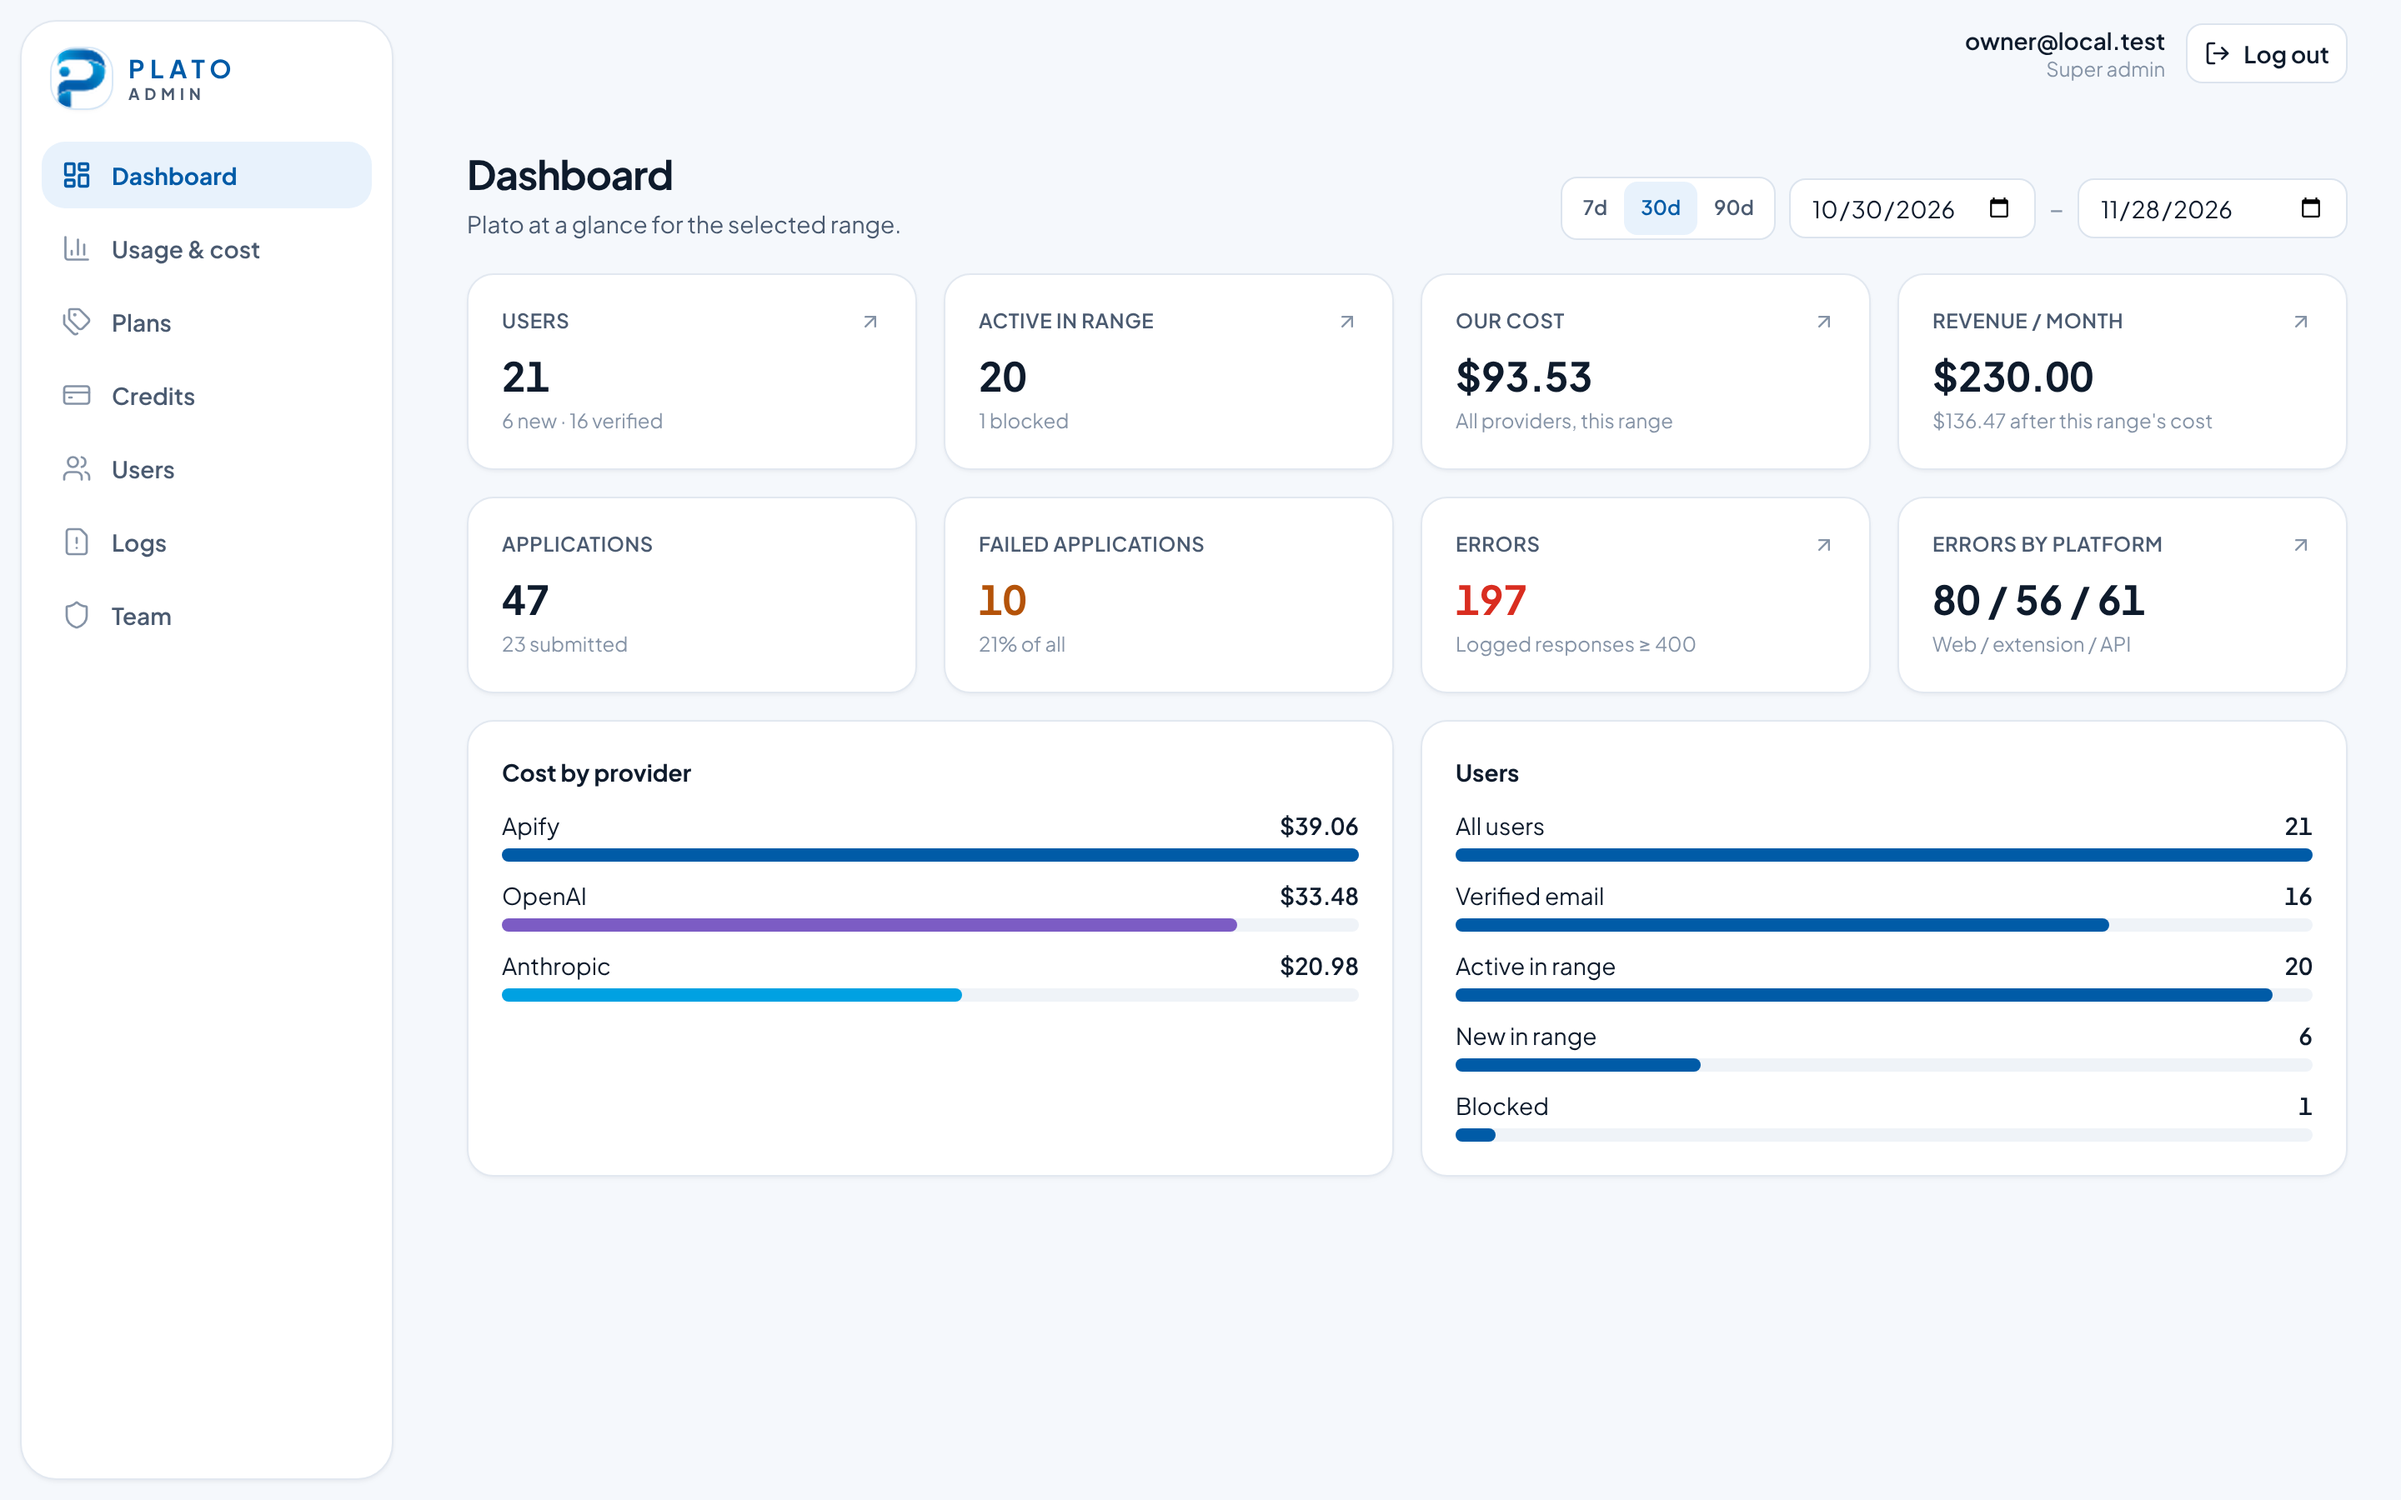
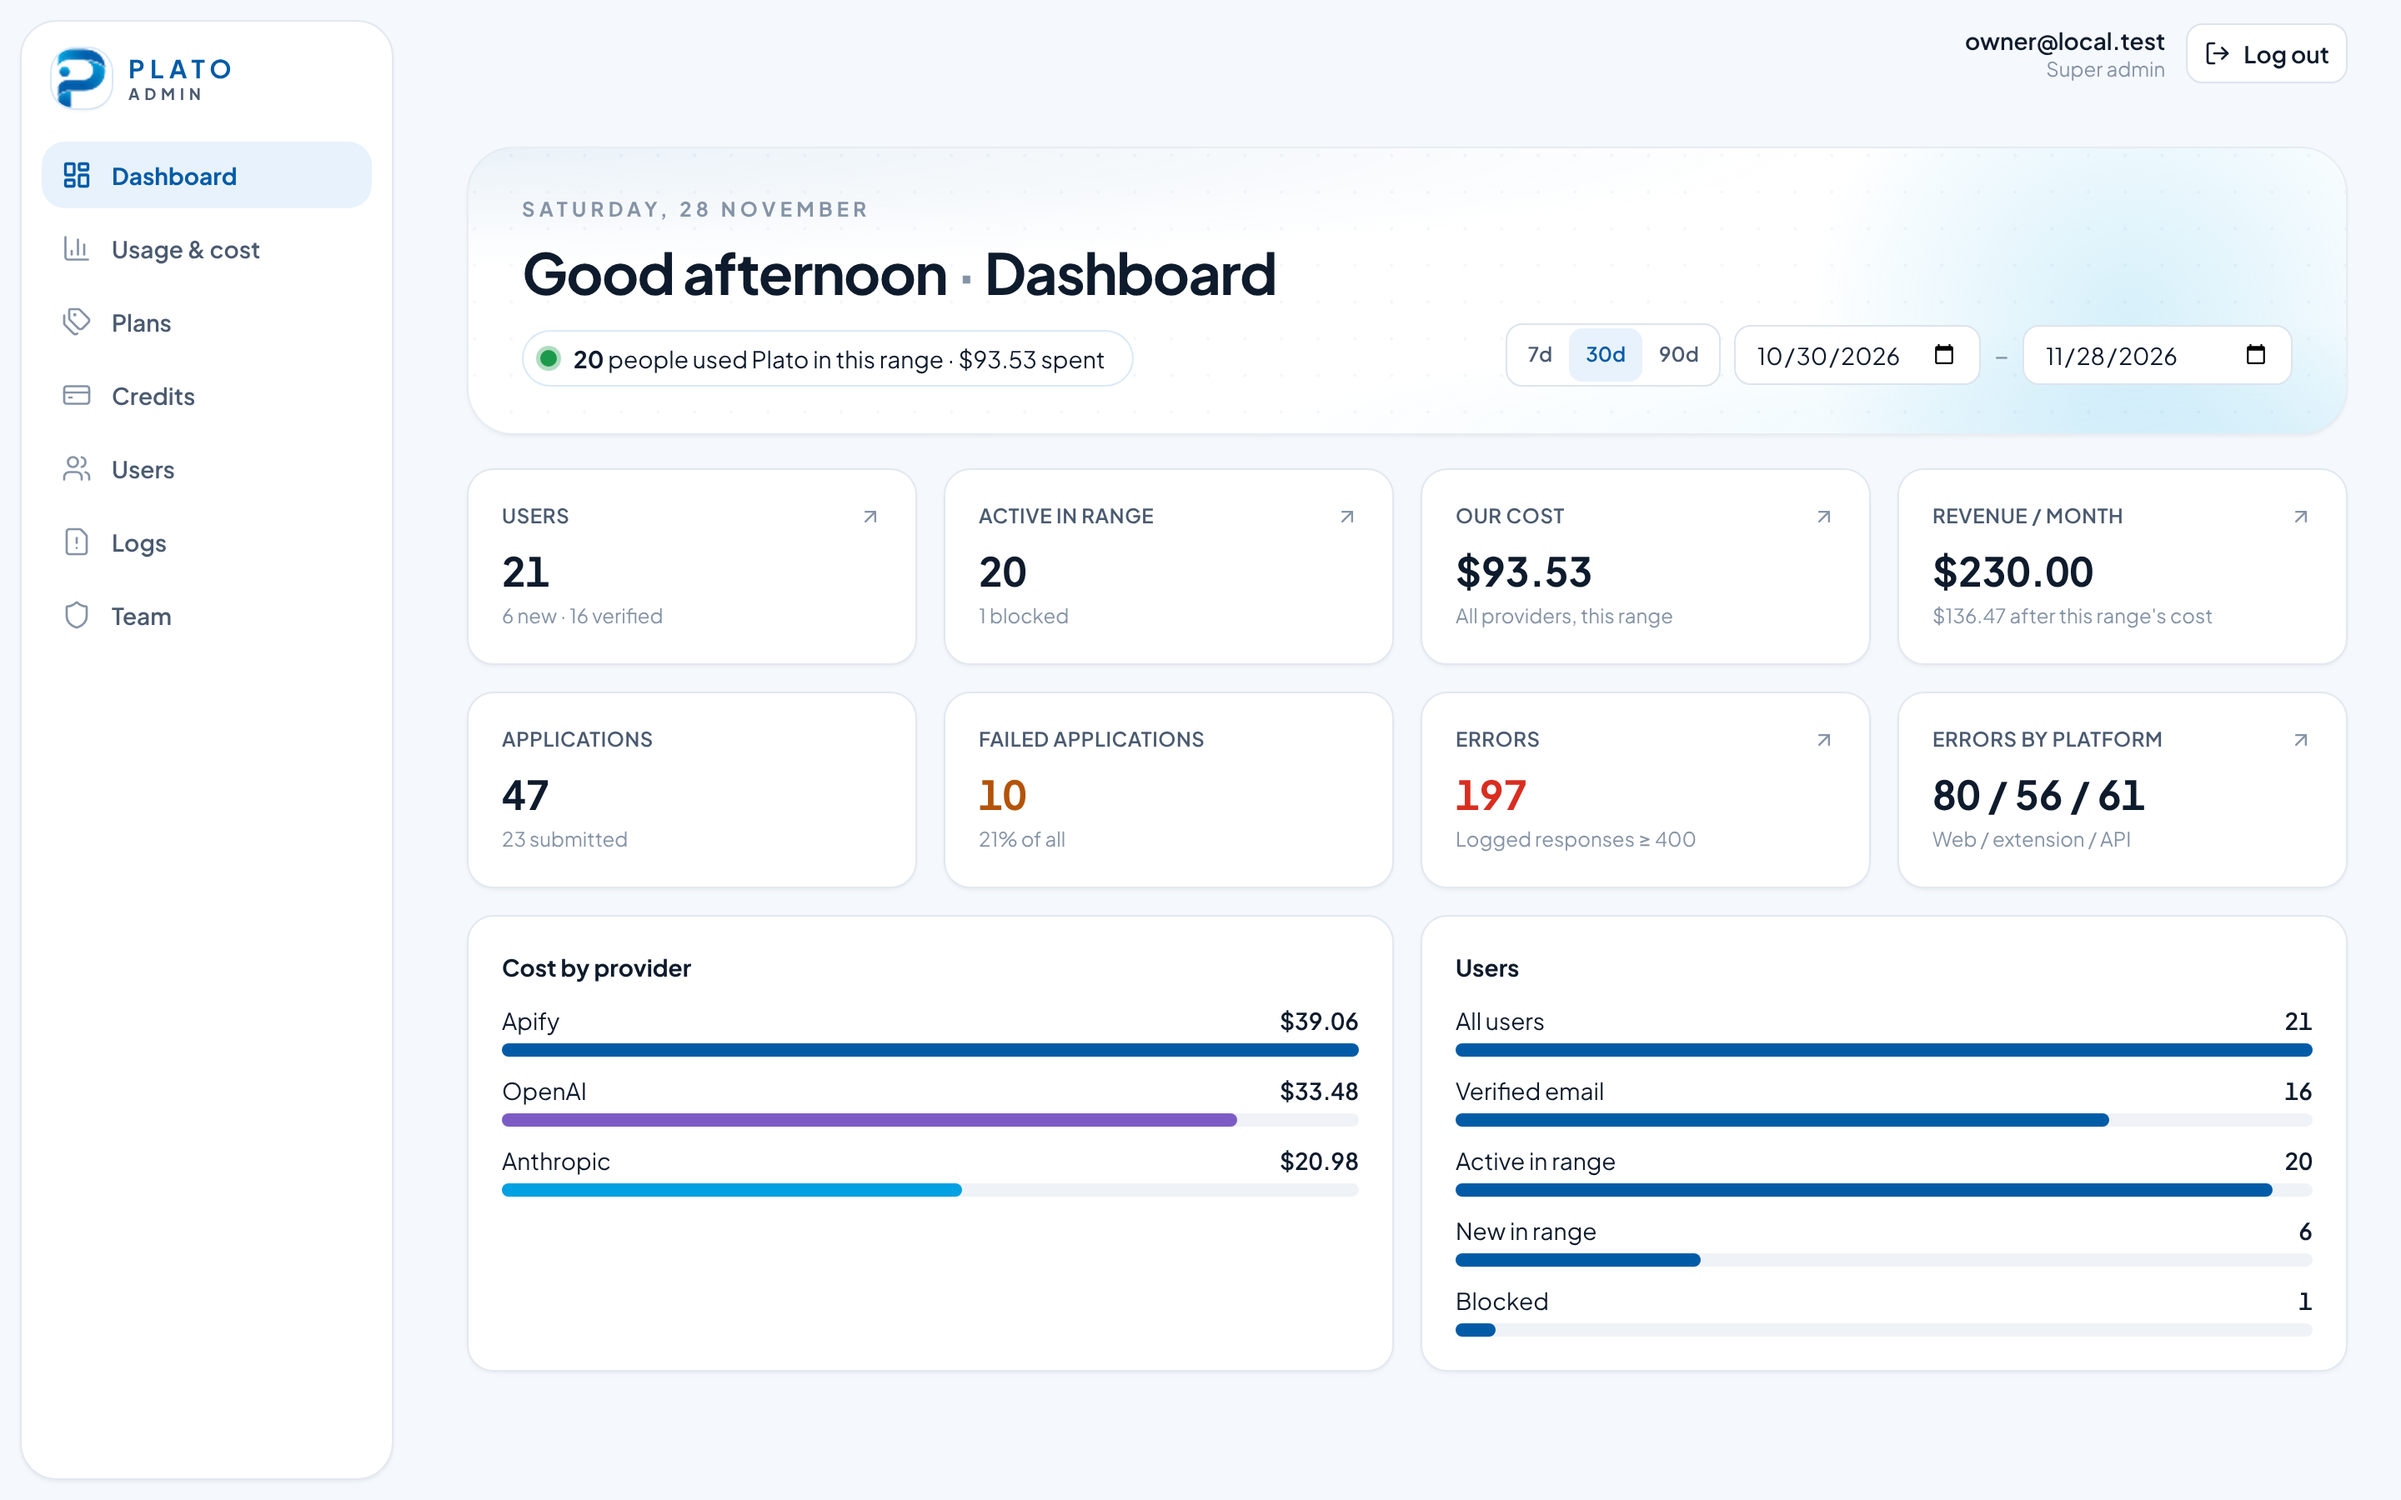
Admin dashboard: the seeker Home's brand header (fx-depth layers, greeting, live status)
Claude-Session: https://claude.ai/code/session_01VMzvXqUWVHxk74mjrZamoN

diff --git a/plato-admin/src/components/BrandHeader.tsx b/plato-admin/src/components/BrandHeader.tsx
@@ -1,0 +1,52 @@
+import type { ReactNode } from 'react';
+
+// The seeker app's brand panel (lib/brand.ts BRAND_PANEL, Home's header): a white card washed with
+// cobalt from the top left and azure from the bottom right.
+export const BRAND_PANEL =
+  'border border-border/80 bg-card bg-[radial-gradient(120%_70%_at_0%_0%,color-mix(in_oklch,var(--primary)_8%,transparent),transparent_60%),radial-gradient(90%_60%_at_100%_100%,color-mix(in_oklch,var(--azure)_9%,transparent),transparent_65%)]';
+// Chips and secondary controls sitting on the brand panel.
+export const BRAND_GLASS = 'border border-primary-line/70 bg-card/85 backdrop-blur-sm';
+
+const greeting = (h = new Date().getHours()) => (h < 5 ? 'Good evening' : h < 12 ? 'Good morning' : h < 18 ? 'Good afternoon' : 'Good evening');
+
+/**
+ * A page's header as the seeker Home draws it: date, greeting, title line, a status pill, and the
+ * page's actions in the usual top-right spot. Its two background layers drift with the pointer at
+ * their own rates (.fx-depth, written by CardFx); still with reduced motion or on touch.
+ */
+export function BrandHeader({ title, status, live, actions }: { title: ReactNode; status?: ReactNode; live?: boolean; actions?: ReactNode }) {
+  const now = new Date();
+  return (
+    <section className={`${BRAND_PANEL} fx-depth enter relative isolate mb-5 overflow-hidden rounded-[28px] px-5 py-6 shadow-card sm:px-8 sm:py-7`}>
+      <span
+        aria-hidden
+        className="depth-2 pointer-events-none absolute -top-24 -right-24 -z-10 size-[420px] rounded-full bg-[radial-gradient(circle,color-mix(in_oklch,var(--azure)_16%,transparent),transparent_65%)]"
+      />
+      <span
+        aria-hidden
+        className="depth-1 pointer-events-none absolute -inset-6 -z-10 [background-image:radial-gradient(var(--primary)_1px,transparent_1px)] [background-size:22px_22px] opacity-[0.05]"
+      />
+      <div className="flex flex-col gap-5 lg:flex-row lg:items-end lg:justify-between">
+        <div className="min-w-0">
+          <p className="text-[12px] font-bold tracking-[0.22em] text-text-tertiary uppercase">
+            {now.toLocaleDateString('en-GB', { weekday: 'long' })}, {now.toLocaleDateString('en-GB', { day: 'numeric', month: 'long' })}
+          </p>
+          <h1 className="mt-2 text-[28px] leading-tight font-extrabold tracking-tight sm:text-[34px]">
+            {greeting()} <span className="text-text-tertiary">·</span> {title}
+          </h1>
+          {status && (
+            // wraps on a phone instead of cutting the numbers off; one line from sm up
+            <p className={`${BRAND_GLASS} mt-3 inline-flex max-w-full items-center gap-2.5 rounded-2xl py-1.5 pr-4 pl-2.5 text-sm sm:rounded-full`}>
+              <span className="relative flex size-2.5 shrink-0">
+                {live && <span className="ping absolute inline-flex size-full rounded-full bg-success opacity-70" />}
+                <span className={`relative inline-flex size-2.5 rounded-full ${live ? 'bg-success' : 'bg-text-tertiary'}`} />
+              </span>
+              <span className="min-w-0 sm:truncate">{status}</span>
+            </p>
+          )}
+        </div>
+        {actions && <div className="flex flex-wrap items-center gap-2 lg:justify-end">{actions}</div>}
+      </div>
+    </section>
+  );
+}

diff --git a/plato-admin/src/pages/Dashboard.tsx b/plato-admin/src/pages/Dashboard.tsx
@@ -1,6 +1,7 @@
+import { BrandHeader } from '../components/BrandHeader';
 import { DateRange } from '../components/DateRange';
 import { BarList, providerColor, providerLabel } from '../components/charts';
-import { ErrorNote, Grid2, PageSkeleton, PageHeader, Section, Stat, StatGrid } from '../components/ui';
+import { ErrorNote, Grid2, PageSkeleton, Section, Stat, StatGrid } from '../components/ui';
 import { useAuth } from '../lib/auth';
 import { money, num } from '../lib/format';
 import { canSee } from '../lib/nav';
@@ -18,7 +19,20 @@ export default function Dashboard() {
 
   return (
     <>
-      <PageHeader title="Dashboard" description="Plato at a glance for the selected range." actions={<DateRange from={from} to={to_} onChange={setRange} />} />
+      <BrandHeader
+        title="Dashboard"
+        live={!!data?.users.activeInRange}
+        status={
+          data ? (
+            <>
+              <b>{num(data.users.activeInRange)}</b> {data.users.activeInRange === 1 ? 'person' : 'people'} used Plato in this range · {money(data.costUsd)} spent
+            </>
+          ) : (
+            'Plato at a glance for the selected range.'
+          )
+        }
+        actions={<DateRange from={from} to={to_} onChange={setRange} />}
+      />
       <ErrorNote error={error} onRetry={reload} />
       {!data && loading ? (
         <PageSkeleton stats={8} />
